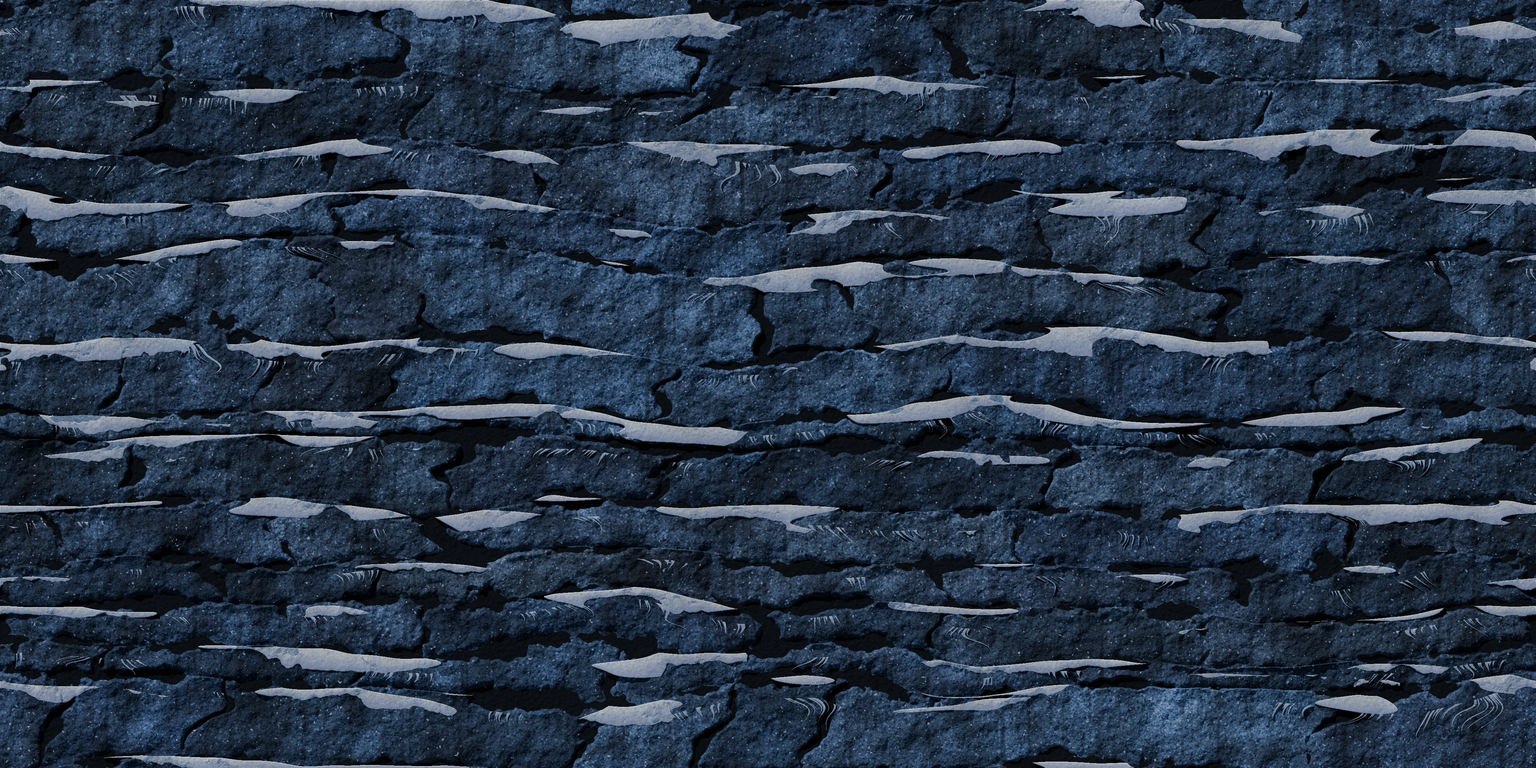
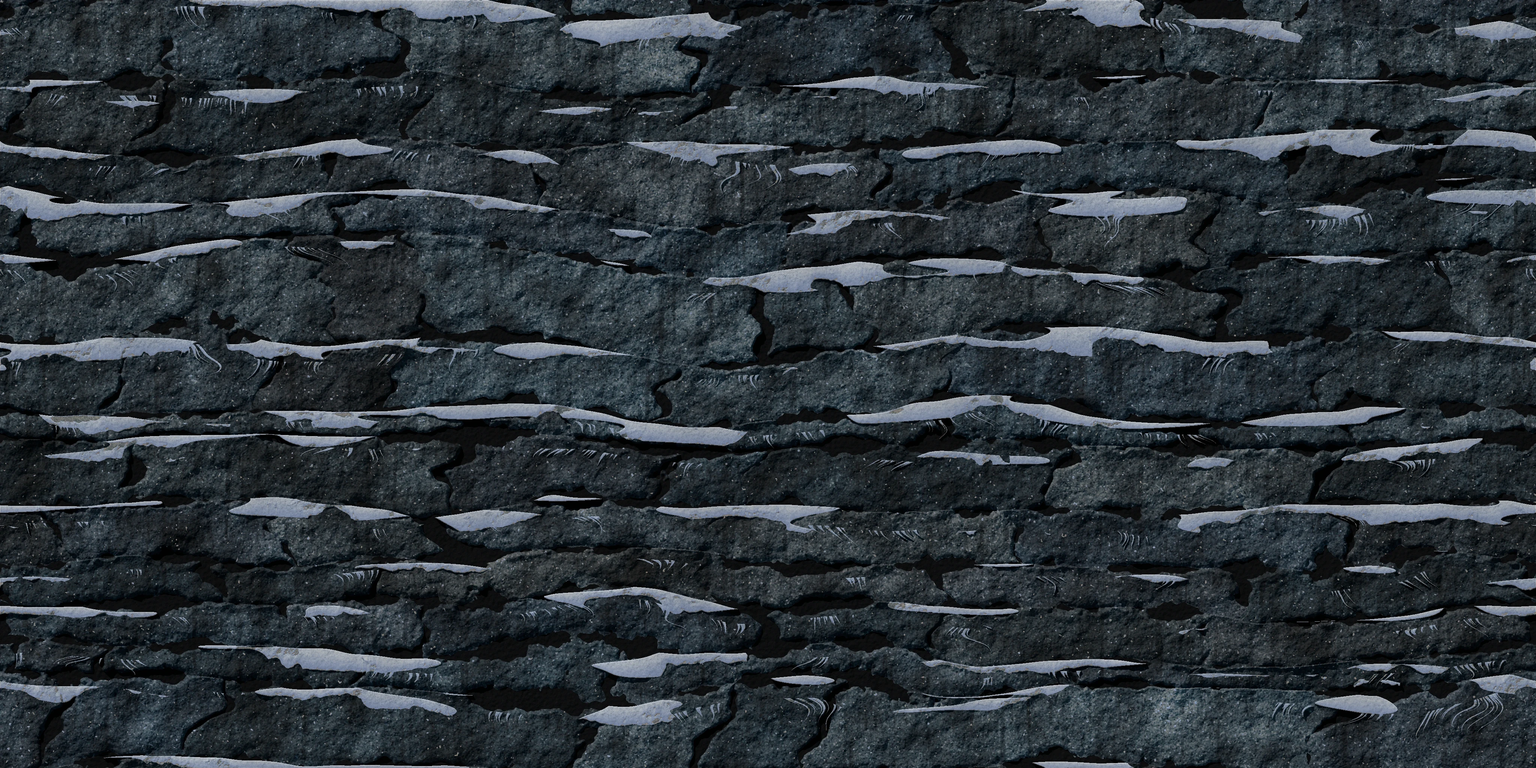
Версия 2026.10.19-73: оттенок породы Арктики и вулкана по замерам эталона (снег остаётся белым), мягкий отсвет лавовых камней вместо оранжевых кругов
Claude-Session: https://claude.ai/code/session_01JvXrYdG1XCH4i3GESsQzbh

diff --git a/js/themes.js b/js/themes.js
@@ -67,7 +67,7 @@ const THEMES = {
       strata: ['#b0c1d6', '#a3b5cc', '#bccbdd', '#98abc3', '#c3d0e0'], band: 30, bandSharp: 0.2,
       rock: ['#7c8cac', '#6e7e9e', '#8898b6', '#647494', '#9aa8c2'], rockDirt: true, rockBand: 62, rim: '#b0c8ff',
       pebbles: ['#c2cfdd', '#a9b8ca', '#d5dee8'],
-      outline: '#16233a', veins: null, ceiling: 'icicles', capMats: [1, 2, 7], tex: { rock: 'rock_arctic', cave: 'cave_arctic', cap: 'cap_snow', gain: [1.51, 1.44, 1.31] /* v44: яркость пород по эталону (cmatch) */ },   // v44: тонкие пласты гранита, снежные уступы с сосульками (make_masonry.py strata)
+      outline: '#16233a', veins: null, ceiling: 'icicles', capMats: [1, 2, 7], tex: { rock: 'rock_arctic', cave: 'cave_arctic', cap: 'cap_snow', gain: [1.51, 1.44, 1.31] /* v73: оттенок камня по эталону — в самой текстуре (arctic_snow_relief.py --rock-tint), канальный gain красил снег; v44: яркость пород по эталону (cmatch) */ },   // v44: тонкие пласты гранита, снежные уступы с сосульками (make_masonry.py strata)
     },
     scatter: ['rockSnow', 'iceCrystal', 'bushSnow', 'rockSnow'],
     weather: 'snow', birds: false, ambient: '#c3cde6', ambientSound: 'snow',
@@ -89,7 +89,7 @@ const THEMES = {
       strata: ['#4b3c39', '#5b4944', '#3e3130', '#655149', '#4e3e3a'], band: 26, bandSharp: 0.3,
       rock: ['#6a5244', '#7e6250', '#5a4438', '#8a6c56', '#725a4a'], rockDirt: true, rockBand: 48, backK: 1.5,
       pebbles: ['#6a5a54', '#7a6862', '#5a4a44'], smoothStones: true,
-      outline: '#0d0606', veins: { color: '#ff7a20', w: 0.012, glow: true, hot: true, mask: 0.64, halo: 3 /* v50: тонкие редкие трещины, как в эталоне (были кляксы) */ }, ceiling: 'stalactites', capMats: [1, 9], tex: { rock: 'rock_volcano', cave: 'cave_volcano', cap: 'cap_ash', gain: [1.55, 1.45, 1.42] /* v56: базальтовые плиты из Blender (make_masonry.py basalt) с расплавом в швах */, glowTex: [255, 110, 30], glowMin: 190 },
+      outline: '#0d0606', veins: { color: '#ff7a20', w: 0.012, glow: true, hot: true, mask: 0.64, halo: 3 /* v50: тонкие редкие трещины, как в эталоне (были кляксы) */ }, ceiling: 'stalactites', capMats: [1, 9], tex: { rock: 'rock_volcano', cave: 'cave_volcano', cap: 'cap_ash', gain: [1.8, 1.9, 1.78] /* v73: по замеру камня без свечения (эталон 29/16/12, было 21/10/8 — темнее и насыщеннее), ~60 % шага; v56: базальтовые плиты из Blender (make_masonry.py basalt) с расплавом в швах */, glowTex: [255, 110, 30], glowMin: 190 },
     },
     scatter: ['obsidian', 'lavarock', 'bones', 'obsidian', 'lavarock'],
     weather: 'embers', birds: false, ambient: '#a47a6c', ambientSound: 'lava', glow: true,

diff --git a/js/decor.js b/js/decor.js
@@ -480,7 +480,7 @@ const DECOR = {
     c.strokeStyle = 'rgba(200,180,255,0.45)'; c.lineWidth = 1; c.beginPath(); c.moveTo(x - 5 * s, y - 4 * s); c.lineTo(x, y - 14 * s); c.stroke();
   },
   lavarock(c, g, x, y, s, r) {
-    if (treeSprite(c, ['lavarock1', 'lavarock2'], x, y, s, r, 34)) { if (g) { g.fillStyle = 'rgba(255,110,20,0.55)'; circ(g, x, y - 6 * s, 9 * s); } return; }   // остывающая лава (Blender)
+    if (treeSprite(c, ['lavarock1', 'lavarock2'], x, y, s, r, 34)) { if (g) { const gr = g.createRadialGradient(x, y - 6 * s, 0, x, y - 6 * s, 11 * s); gr.addColorStop(0, 'rgba(255,120,30,0.42)'); gr.addColorStop(0.5, 'rgba(255,90,20,0.16)'); gr.addColorStop(1, 'rgba(255,80,20,0)'); g.fillStyle = gr; circ(g, x, y - 6 * s, 11 * s); } return; }   /* r30: мягкий ореол, а не сплошной оранжевый круг */   // остывающая лава (Blender)
     c.fillStyle = hgrad(c, x - 12 * s, x + 12 * s, ['#4a3a36', '#2a201e', '#140e0d']);
     c.beginPath(); c.ellipse(x, y - 5 * s, 12 * s, 8 * s, 0, 0, TAU); c.fill();
     c.strokeStyle = '#ff8a2a'; c.lineWidth = 1; c.beginPath(); c.moveTo(x - 7 * s, y - 5 * s); c.lineTo(x - 1 * s, y - 8 * s); c.lineTo(x + 5 * s, y - 3 * s); c.stroke();

diff --git a/index.html b/index.html
@@ -114,7 +114,7 @@
         </div>
       </div>
     </div>
-    <footer class="menu-footer"><span id="game-version">ВЕРСИЯ 2026.10.17-72</span><span>ПЛАНИРУЙ ХОД. МЕНЯЙ ЛАНДШАФТ.</span><span class="footer-status"><i></i> ГОТОВ К БОЮ</span></footer>
+    <footer class="menu-footer"><span id="game-version">ВЕРСИЯ 2026.10.19-73</span><span>ПЛАНИРУЙ ХОД. МЕНЯЙ ЛАНДШАФТ.</span><span class="footer-status"><i></i> ГОТОВ К БОЮ</span></footer>
   </section>
 
   <!-- Онлайн -->

diff --git a/dev/tools/arctic_snow_relief.py b/dev/tools/arctic_snow_relief.py
@@ -5,6 +5,7 @@ python dev/tools/arctic_snow_relief.py [--keep 0.55] [--seed 7] [--name rock_arc
 Берёт родную ×4 assets/tex/native/<имя>.webp (прежняя сохраняется в dev/tex-backup/<имя>_native.webp один раз):
 - снег = светлые малонасыщенные пиксели; каждый вертикальный отрезок снега в столбце затеняется сверху вниз
   (верх — свет, низ — синеватая тень 0.6), по верхней кромке — блик 1–2 px, лёгкое зерно — снег объёмный, а не плоский;
+- камень (не снег) умножается на --rock-tint (оттенок по эталону);
 - по желанию часть пятен (1 − keep, по умолчанию не убирается: остаются висящие сосульки) убирается: отрезок заполняется зеркальной копией породы над ним, края смешиваются.
 Пишет родную webp (lossy q90, как make_native --lossy) и малую assets/tex/<имя>.png — точное уменьшение 4×4.
 """
@@ -25,6 +26,7 @@ def main():
     ap.add_argument('--name', default='rock_arctic')
     ap.add_argument('--keep', type=float, default=1.0)
     ap.add_argument('--seed', type=int, default=7)
+    ap.add_argument('--rock-tint', default='1.159,0.944,0.748', help='множители каналов камня (не снега): r,g,b')
     a = ap.parse_args()
     nat = ROOT / 'assets/tex/native' / f'{a.name}.webp'
     bak = ROOT / 'dev/tex-backup' / f'{a.name}_native.webp'
@@ -69,6 +71,11 @@ def main():
             seg += grain[y0:y1, x, None]
             out[y0:y1, x] = seg
             if y1 < H: out[y1 % H, x] *= 0.78       # контактная тень под шапкой
+    # v73: оттенок камня по эталону (камень 22/27/37 при прежних 19/29/48): только камень, снег и сосульки — белые
+    tint = np.array([float(v) for v in a.rock_tint.split(',')], np.float32)
+    w = ndimage.gaussian_filter((~snow).astype(np.float32), 1.0)[..., None]
+    w *= np.clip((200 - L[..., None]) / 60, 0, 1)                 # светлый иней и сосульки не трогаем
+    out = out * (1 - w) + out * tint * w
     out = np.clip(np.rint(out), 0, 255).astype(np.uint8)
     Image.fromarray(out).save(nat, 'WEBP', quality=90, method=6)
     small = out.reshape(H // 4, 4, W // 4, 4, 3).astype(np.float32).mean((1, 3))

diff --git a/dev/reviews/r29.md b/dev/reviews/r29.md
@@ -14,3 +14,11 @@
 v69: вулкан — dev/tools/volcano_lava_cracks.py (расплав → тонкая светящаяся сердцевина, тёмная корка, отсвет на камень);
 арктика — dev/tools/arctic_snow_relief.py (снег на уступах: свет сверху, синеватая тень снизу, блик, контактная тень).
 Прежние родные — dev/tex-backup/<имя>_native.webp.
+
+## r30 (17.10, после v69–72; фиксированные камеры)
+alien 4, arctic 4, canyon 5 (кадр без массива), castles 6, city 6.5, pirate 6.5, valley 6, volcano 4.5.
+Замеры по пикселям: вулкан — камень без свечения 21/10/8 при эталоне 29/16/12 (темнее и насыщеннее);
+арктика — 19/29/48 при 22/27/37 (синее). v73: оттенок камня Арктики в текстуре (--rock-tint, gain красил снег в бежевый),
+вулкан gain [1.8, 1.9, 1.78], ореол lavarock мягкий (были «оранжевые круги»).
+Остальное из r30: alien — контраст глыб 35–40 %, мох на кромке, гриб засвечен; замки — тёплый свет гребня, тон камней ±12 %;
+город — разнообразие окон, декор крыш; пираты — предметы на палубах; долина — башня темнее с мхом, ель ярусами.
